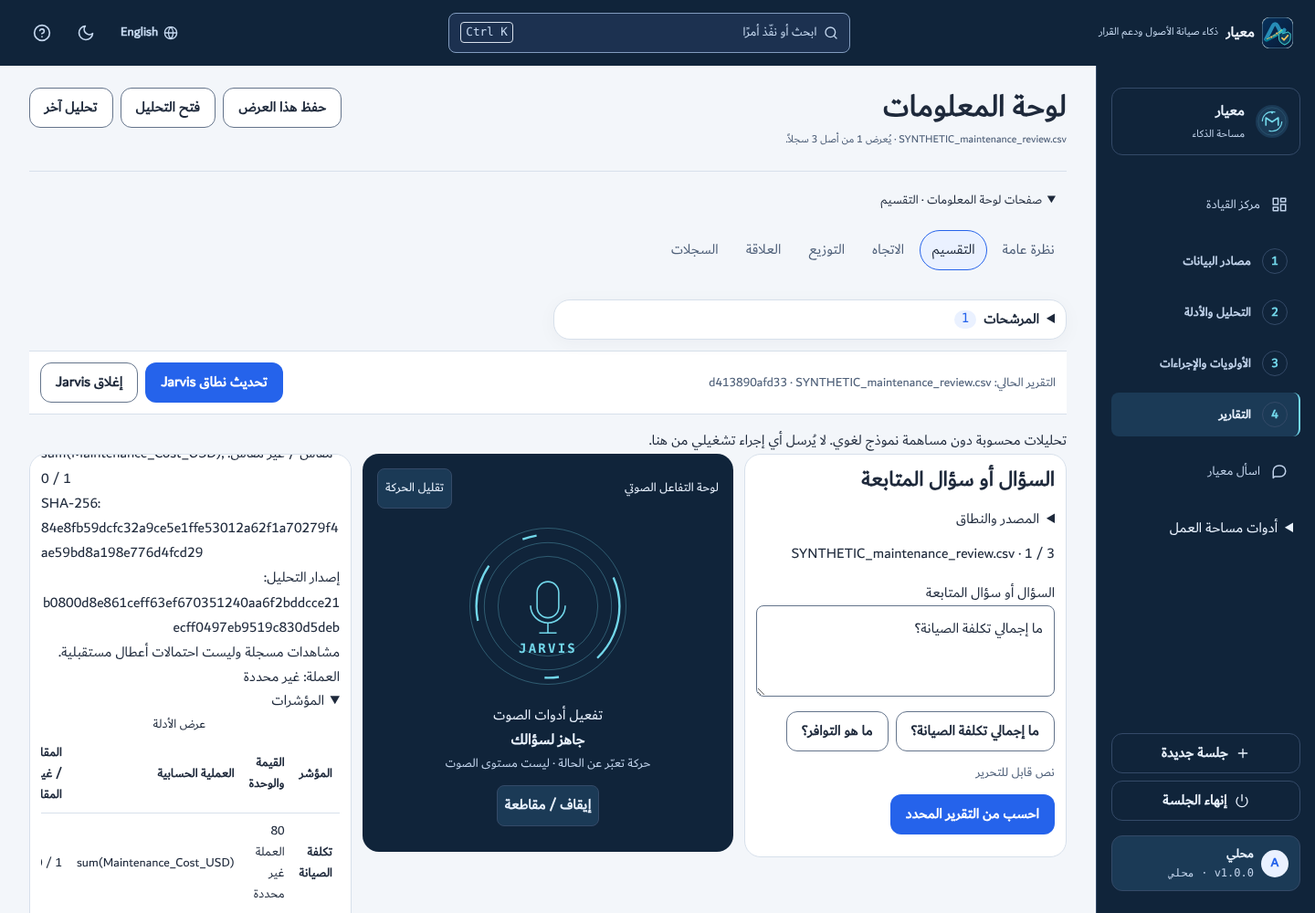
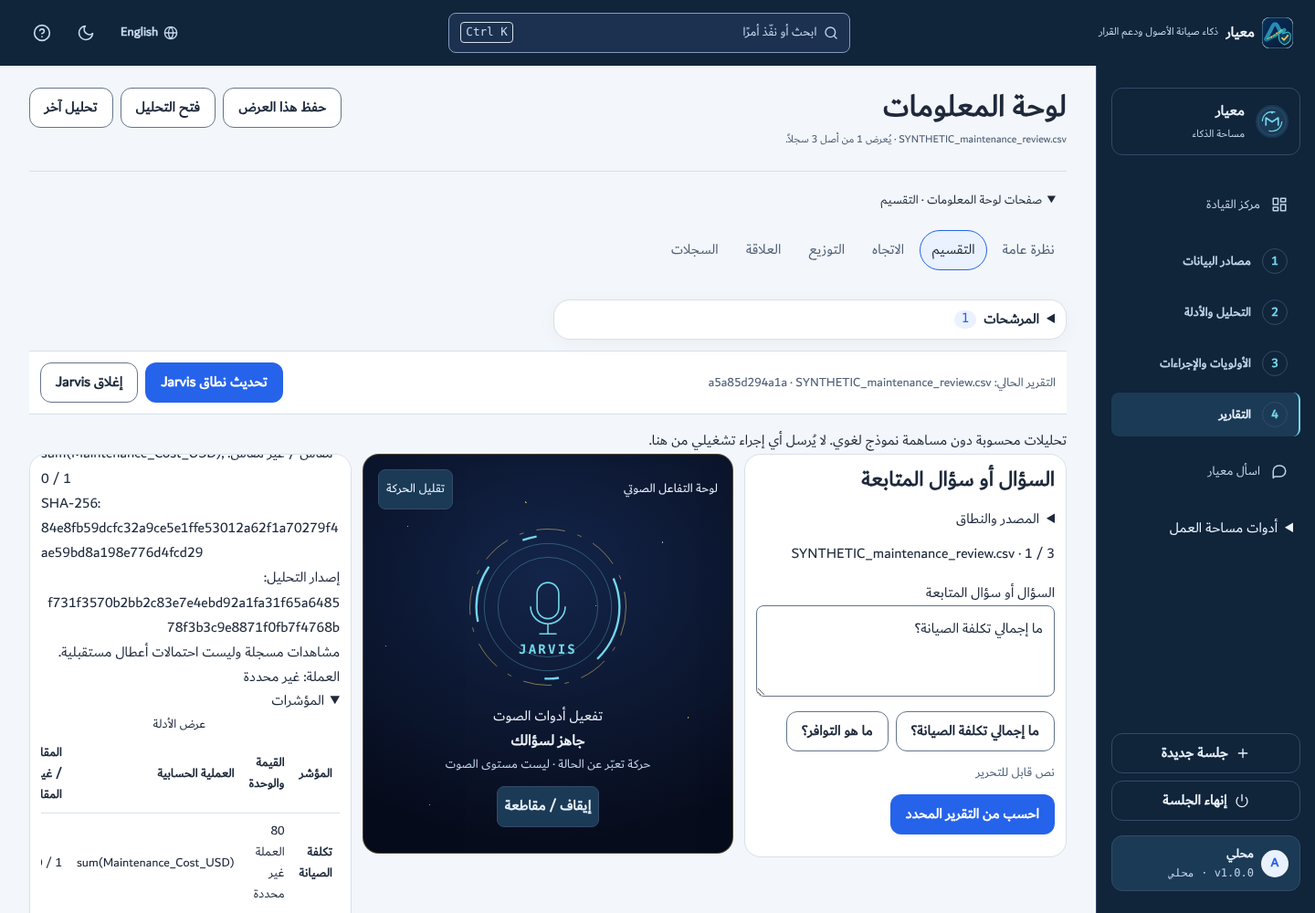
Jarvis command deck: celestial core, speaking head, live agent map
The voice core sits on a night-sky gradient with CSS particles and a
gold ring; while speaking, the microphone becomes a gold head outline (a
state cue, no audio level). AgentMap reads the run's real task states
from GET /api/runs/{id}, grouped by the existing bands, named in the
interface language, refreshed every 4 s only while the run is live, and
says so when states cannot be read. Codex's Jarvis behaviour is kept;
Jarvis e2e 10 of 10, 4 new unit tests, verify 8 of 8. Script and style
totals rise to 273 KB and 37 KB (+1,363 and +617 bytes); first load is
unchanged. The raise awaits the owner's approval before merge.

Claude-Session: https://claude.ai/code/session_013QuA9ZJjZFprHsrGeG8vHp

diff --git a/frontend/src/features/chat/jarvis.css b/frontend/src/features/chat/jarvis.css
@@ -31,7 +31,28 @@
 .jarvis__measures { overflow: auto; }
 .jarvis__measures table { font-size: var(--text-s); border-collapse: collapse; width: 100%; }
 .jarvis__measures th, .jarvis__measures td { padding: var(--space-2); border-bottom: 1px solid var(--border); text-align: start; }
-.jarvis-core { min-width: 0; padding: var(--space-4); border-radius: var(--radius-l); background: var(--nav-surface); color: var(--nav-text); text-align: center; }
+.jarvis-core { position: relative; isolation: isolate; overflow: hidden; min-width: 0; padding: var(--space-4); border-radius: var(--radius-l); border: 1px solid rgba(232,194,106,.3); background: radial-gradient(120% 90% at 50% 30%, #13254a, #070c1c 75%); color: #eaf1fb; text-align: center; }
+.jarvis-core::before { content: ''; position: absolute; inset: 0; z-index: -1; opacity: .7; background: radial-gradient(1.5px 1.5px at 12% 18%, #cfe8ff 50%, transparent 51%), radial-gradient(1px 1px at 28% 72%, #cfe8ff 50%, transparent 51%), radial-gradient(2px 2px at 44% 12%, #e8c26a 50%, transparent 51%), radial-gradient(1px 1px at 63% 38%, #cfe8ff 50%, transparent 51%), radial-gradient(1.5px 1.5px at 81% 22%, #cfe8ff 50%, transparent 51%), radial-gradient(2px 2px at 88% 66%, #e8c26a 50%, transparent 51%), radial-gradient(1px 1px at 18% 88%, #cfe8ff 50%, transparent 51%), radial-gradient(1.5px 1.5px at 55% 84%, #cfe8ff 50%, transparent 51%), radial-gradient(1px 1px at 72% 92%, #e8c26a 50%, transparent 51%), radial-gradient(1px 1px at 6% 48%, #cfe8ff 50%, transparent 51%); animation: jarvis-drift 18s ease-in-out infinite alternate; }
+@keyframes jarvis-drift { to { transform: translateY(-14px); opacity: .4; } }
+.jarvis-core__orb .jarvis-core__gold { stroke: #e8c26a; stroke-dasharray: 40 18 6 18; opacity: .7; }
+.jarvis-core__mic, .jarvis-core__head { transition: opacity .4s; }
+.jarvis-core__head { opacity: 0; stroke: #e8c26a; }
+.jarvis-core[data-state='speaking'] .jarvis-core__head { opacity: 1; }
+.jarvis-core[data-state='speaking'] .jarvis-core__mic { opacity: 0; }
+.agent-map { margin-block: var(--space-4); padding: var(--space-4); border-radius: var(--radius-l); border: 1px solid rgba(232,194,106,.3); background: #0a1330; color: #eaf1fb; }
+.agent-map header { display: flex; flex-wrap: wrap; justify-content: space-between; gap: var(--space-2); color: #f1dfae; }
+.agent-map p { color: #a9b8d0; font-size: var(--text-s); }
+.agent-map__bands { display: grid; grid-template-columns: repeat(auto-fit, minmax(190px, 1fr)); gap: var(--space-3); }
+.agent-map h4 { color: #e8c26a; font-size: var(--text-xs); margin-block: var(--space-2); }
+.agent-map ol { list-style: none; padding: 0; display: grid; gap: var(--space-1); }
+.agent-map li { display: flex; gap: var(--space-2); align-items: center; padding: var(--space-1) var(--space-2); border-radius: var(--radius-s); border: 1px dashed #3a4a66; font-size: var(--text-s); }
+.agent-map li > :nth-child(2) { flex: 1; min-width: 0; }
+.agent-map__state { font-size: var(--text-xs); color: #a9b8d0; }
+.agent-map li[data-state='succeeded'] { border: 1px solid rgba(125,211,252,.35); }
+.agent-map li[data-state='succeeded'] > :first-child { color: #7dd3fc; }
+.agent-map li[data-state='running'] { border: 1px solid #e8c26a; background: rgba(232,194,106,.12); }
+.agent-map li:is([data-state='failed'], [data-state='awaiting_approval']) { border: 1px solid #fb923c; }
+.agent-map li[data-state='failed'] > :first-child { color: #fb923c; }
 .jarvis-core__top { display: flex; flex-wrap: wrap; align-items: center; justify-content: space-between; gap: var(--space-2); font-size: var(--text-s); }
 .jarvis-core__top button, .jarvis-core .btn--ghost { color: var(--nav-text); background: var(--nav-active); border: 1px solid var(--nav-border); border-radius: var(--radius-s); padding: var(--space-2); }
 .jarvis-core__orb { display: block; position: relative; width: min(190px, 100%); aspect-ratio: 1; padding: 0; border: 0; background: transparent; margin: var(--space-3) auto; color: var(--nav-accent); }
@@ -49,7 +70,7 @@
 .jarvis-core:is([data-state='processing'], [data-state='requesting']) .jarvis-core__arc { animation: jarvis-turn 5s linear infinite; }
 @keyframes jarvis-pulse { 50% { transform: scale(1.12); opacity: .9; } }
 @keyframes jarvis-turn { to { transform: rotate(360deg); } }
-.jarvis-core[data-still='true'] *, .jarvis-core[data-still='true'] *::before { animation: none !important; }
-@media (prefers-reduced-motion: reduce) { .jarvis-core * { animation: none !important; } }
+.jarvis-core[data-still='true'] *, .jarvis-core[data-still='true'] *::before, .jarvis-core[data-still='true']::before { animation: none !important; }
+@media (prefers-reduced-motion: reduce) { .jarvis-core *, .jarvis-core::before { animation: none !important; } }
 @media (max-width: 1100px) { .jarvis__console { grid-template-columns: minmax(0, 1fr) minmax(0, 1fr); } .jarvis__console > .jarvis-core { grid-column: 1 / -1; } .jarvis__composer { grid-row: 2; } .jarvis__answer { grid-column: 2; grid-row: 2; } }
 @media (max-width: 700px) { .jarvis__console { display: flex; flex-direction: column; } .jarvis__console > * { width: 100%; } .jarvis__answer { max-block-size: none; } }

diff --git a/frontend/src/features/chat/AgentMap.test.tsx b/frontend/src/features/chat/AgentMap.test.tsx
@@ -1,0 +1,54 @@
+import { act, render, screen } from '@testing-library/react'
+import { afterEach, expect, it, vi } from 'vitest'
+import { AgentMap } from './AgentMap'
+import { JarvisCore } from './JarvisCore'
+import { api } from '../../shared/api'
+import type { RunDetail, RunTask } from '../../shared/types'
+
+const task = (role: string, state: string, title: string): RunTask =>
+  ({ id: role, role, title, state, summary: null, quality_checks: [], claims: [] })
+const run = (state: string, tasks: RunTask[]) => ({ id: 'r1', state, tasks } as unknown as RunDetail)
+
+afterEach(() => { vi.restoreAllMocks(); vi.useRealTimers() })
+
+it('shows each agent with the state the server reports, grouped by band', async () => {
+  vi.spyOn(api, 'getRun').mockResolvedValue(run('awaiting_approval', [
+    task('planner', 'succeeded', 'Planner Agent — what to do'), task('anomaly', 'failed', 'Anomaly Agent'),
+    task('reliability_model', 'skipped', 'Reliability Agent — failure pattern'),
+  ]))
+  render(<AgentMap runId="r1" />)
+  const map = await screen.findByRole('region', { name: 'Agent map' })
+  expect(map).toHaveTextContent('1/3')
+  // Built-in agents are named in the interface language; a custom stage keeps the server's title.
+  expect(screen.getByText('Planning').closest('li')).toHaveAttribute('data-state', 'succeeded')
+  expect(screen.getByText('Anomaly detection').closest('li')).toHaveAttribute('data-state', 'failed')
+  expect(screen.getByText('Reliability Agent').closest('li')).toHaveAttribute('data-state', 'skipped')
+})
+
+it('refreshes while the run is live and stops once it settles', async () => {
+  vi.useFakeTimers()
+  const getRun = vi.spyOn(api, 'getRun')
+    .mockResolvedValueOnce(run('running', [task('planner', 'running', 'Planner Agent')]))
+    .mockResolvedValue(run('completed', [task('planner', 'succeeded', 'Planner Agent')]))
+  render(<AgentMap runId="r1" />)
+  await act(async () => { await Promise.resolve() })
+  expect(screen.getByText('Planning').closest('li')).toHaveAttribute('data-state', 'running')
+  await act(async () => { await vi.advanceTimersByTimeAsync(4000) })
+  expect(screen.getByText('Planning').closest('li')).toHaveAttribute('data-state', 'succeeded')
+  await act(async () => { await vi.advanceTimersByTimeAsync(12000) })
+  expect(getRun).toHaveBeenCalledTimes(2)
+})
+
+it('says so when agent states cannot be read, inventing none', async () => {
+  vi.spyOn(api, 'getRun').mockRejectedValue(new Error('Synthetic outage'))
+  render(<AgentMap runId="r1" />)
+  expect(await screen.findByText('Agent states unavailable.')).toBeInTheDocument()
+})
+
+it('turns the orb into a head outline only while speaking', () => {
+  const { container, rerender } = render(<JarvisCore state="ready" />)
+  expect(container.querySelector('.jarvis-core__head')).not.toBeNull()
+  expect(container.querySelector('.jarvis-core')).toHaveAttribute('data-state', 'ready')
+  rerender(<JarvisCore state="speaking" />)
+  expect(container.querySelector('.jarvis-core')).toHaveAttribute('data-state', 'speaking')
+})

diff --git a/frontend/src/features/chat/AgentMap.tsx b/frontend/src/features/chat/AgentMap.tsx
@@ -1,0 +1,41 @@
+import { useEffect, useState } from 'react'
+import { api } from '../../shared/api'
+import type { RunDetail } from '../../shared/types'
+import type { MessageKey } from '../../i18n'
+import { usePack } from '../../i18n/pack'
+import { jarvisMessages } from '../../i18n/jarvis'
+import { stateLabel } from '../../shared/labels'
+import { BASE_ROLES, groupedTasks } from '../runs/pipeline'
+
+const LIVE = new Set(['queued', 'running'])
+const MARK: Record<string, string> = { succeeded: '✓', failed: '!', skipped: '–', cancelled: '–', running: '•', awaiting_approval: '◆' }
+
+/** The run's real stage states, read from the server and refreshed while it runs. Nothing is simulated. */
+export function AgentMap({ runId }: { runId: string }) {
+  const { t, formatNumber } = usePack(jarvisMessages)
+  const [run, setRun] = useState<RunDetail | null>(null)
+  const [failed, setFailed] = useState(false)
+  useEffect(() => {
+    let alive = true; let timer = 0
+    const load = () => api.getRun(runId).then((next) => {
+      if (!alive) return
+      setRun(next); setFailed(false)
+      if (LIVE.has(next.state)) timer = window.setTimeout(load, 4000)
+    }).catch(() => { if (alive) setFailed(true) })
+    void load()
+    return () => { alive = false; window.clearTimeout(timer) }
+  }, [runId])
+  if (!run) return failed ? <p className="agent-map__none">{t('agentMapNone')}</p> : null
+  const done = run.tasks.filter((task) => task.state === 'succeeded').length
+  return <section className="agent-map" aria-label={t('agentMap')}>
+    <header><strong>{t('agentMap')}</strong><span>{stateLabel(t, run.state)} · <bdi>{formatNumber(done)}/{formatNumber(run.tasks.length)}</bdi></span></header>
+    <p>{t('hermes')}</p>
+    <div className="agent-map__bands">{groupedTasks(run.tasks).filter((group) => group.tasks.length).map(({ band, tasks }) => <div key={band}>
+      <h4>{t(`cockpit.band.${band}` as MessageKey)}</h4>
+      <ol>{tasks.map((task) => <li key={task.id} data-state={task.state} title={stateLabel(t, task.state)}>
+        <span aria-hidden="true">{MARK[task.state] ?? ''}</span>
+        <span dir="auto">{(BASE_ROLES as readonly string[]).includes(task.role) ? t(`cockpit.role.${task.role}` as MessageKey) : task.title.split(' — ')[0]}</span>
+        <span className="agent-map__state">{stateLabel(t, task.state)}</span>
+      </li>)}</ol></div>)}</div>
+  </section>
+}

diff --git a/frontend/src/i18n/jarvis.ts b/frontend/src/i18n/jarvis.ts
@@ -1,6 +1,7 @@
 import { definePack } from './pack'
 export const jarvisMessages = definePack({
   voiceStage: 'Voice console', reduceMotion: 'Reduce motion', stateAnimation: 'State animation · not an audio level',
+  agentMap: 'Agent map', hermes: 'Hermes sequences these agents and holds the approval gate.', agentMapNone: 'Agent states unavailable.',
   transcribing: 'Preparing editable transcript', preparing: 'Preparing device speech', localVoiceUnavailable: 'Device-local English voice unavailable or playback failed.',
   ready: 'Ready for your question', requesting: 'Waiting for microphone', listening: 'Listening', processing: 'Processing selected data', speaking: 'Speaking', unavailable: 'Voice or service unavailable · text remains available',
   transcript: 'Editable transcript', evidenceView: 'Evidence view', measures: 'Measures', references: 'Full answer and references',
@@ -29,6 +30,7 @@ export const jarvisMessages = definePack({
   boot: 'Open synthetic workspace', bootError: 'Workspace unavailable. Start the documented synthetic server; the original database is not used.',
 }, {
   voiceStage: 'لوحة التفاعل الصوتي', reduceMotion: 'تقليل الحركة', stateAnimation: 'حركة تعبّر عن الحالة · ليست مستوى الصوت',
+  agentMap: 'خريطة الوكلاء', hermes: 'يرتّب هيرمس هؤلاء الوكلاء ويحرس بوابة الاعتماد.', agentMapNone: 'حالات الوكلاء غير متاحة.',
   transcribing: 'جارٍ إعداد النص القابل للتحرير', preparing: 'جارٍ تجهيز صوت الجهاز', localVoiceUnavailable: 'الصوت العربي المحلي غير متاح أو تعذر تشغيله.',
   ready: 'جاهز لسؤالك', requesting: 'بانتظار الميكروفون', listening: 'جارٍ الاستماع', processing: 'جارٍ معالجة البيانات المحددة', speaking: 'جارٍ التحدث', unavailable: 'الصوت أو الخدمة غير متاح · الكتابة متاحة',
   transcript: 'نص قابل للتحرير', evidenceView: 'عرض الأدلة', measures: 'المؤشرات', references: 'الإجابة الكاملة والمراجع',

diff --git a/frontend/src/features/chat/JarvisCore.tsx b/frontend/src/features/chat/JarvisCore.tsx
@@ -9,9 +9,11 @@ export function JarvisCore({ state, children, muted = true, onToggleAudio }: { s
   const { t } = usePack(jarvisMessages)
   const [still, setStill] = useState(false)
   const orb = <>
-      <svg viewBox="0 0 240 240"><circle cx="120" cy="120" r="108" /><circle cx="120" cy="120" r="88" />
+      <svg viewBox="0 0 240 240"><circle className="jarvis-core__gold" cx="120" cy="120" r="108" /><circle cx="120" cy="120" r="88" />
         <circle className="jarvis-core__arc" cx="120" cy="120" r="99" /><circle className="jarvis-core__pulse" cx="120" cy="120" r="69" />
-        <path d="M105 101v20a15 15 0 0 0 30 0v-20a15 15 0 0 0-30 0Zm-9 18a24 24 0 0 0 48 0m-24 24v14m-12 0h24" /></svg>
+        <path className="jarvis-core__mic" d="M105 101v20a15 15 0 0 0 30 0v-20a15 15 0 0 0-30 0Zm-9 18a24 24 0 0 0 48 0m-24 24v14m-12 0h24" />
+        {/* Speaking: the orb takes a human head's outline. A state cue, never a face of anyone. */}
+        <path className="jarvis-core__head" d="M100 170v-16c-14-8-22-22-22-40 0-28 20-48 46-48 24 0 42 18 42 42 0 6-1 10-3 14l10 16c2 3 0 5-3 5h-7v12c0 6-4 9-10 9h-12v6m9-66h1" /></svg>
       <span>JARVIS</span>
     </>
   return <section className="jarvis-core" data-state={state} data-still={still} aria-label={t('voiceStage')}>

diff --git a/frontend/src/features/dashboard/DashboardJarvis.tsx b/frontend/src/features/dashboard/DashboardJarvis.tsx
@@ -7,6 +7,7 @@ import { jarvisDashboardMessages } from '../../i18n/jarvisDashboard'
 
 const Workspace = lazy(() => import('../chat/JarvisWorkspace').then(module => ({ default: module.JarvisWorkspace })))
 const Core = lazy(() => import('../chat/JarvisCore').then(module => ({ default: module.JarvisCore })))
+const Agents = lazy(() => import('../chat/AgentMap').then(module => ({ default: module.AgentMap })))
 
 /** An explicit session binding to the exact chart scope. Never auto-select another run. */
 export function DashboardJarvis({ runId, datasetName, filters, children }: {
@@ -61,6 +62,7 @@ export function DashboardJarvis({ runId, datasetName, filters, children }: {
           {failed === 'missing' && <a href="/#/dashboard">{t('choose')}</a>}
           <p>{t('mode')}</p></div>
       </div>}
+      <Agents runId={runId} />
     </Suspense>
   </aside>
   return <section className="dash-jarvis" aria-label={t('title')}>

diff --git a/tests/test_verify.py b/tests/test_verify.py
@@ -41,12 +41,12 @@ class SummaryTests(unittest.TestCase):
 class BudgetTests(unittest.TestCase):
     def test_jarvis_allocation_is_exact_and_total_only(self):
         self.assertEqual({key: verify.BUDGET_KB[key] for key in ('js', 'js_total', 'js_chunk', 'css', 'css_total')},
-                         {'js': 100, 'js_total': 272, 'js_chunk': 30, 'css': 10.5, 'css_total': 36.5})
+                         {'js': 100, 'js_total': 273, 'js_chunk': 30, 'css': 10.5, 'css_total': 37})
         dist = self.build(100, 0)
-        values = {'js': 99539, 'js_total': 272001, 'js_chunk': 18188, 'css': 9813, 'css_total': 32451, 'fonts': 0}
+        values = {'js': 99539, 'js_total': 273001, 'js_chunk': 18188, 'css': 9813, 'css_total': 32451, 'fonts': 0}
         with mock.patch.object(verify, 'measure_budget', return_value=values):
             self.assertFalse(verify.check_budget(dist)[0])
-            values['js_total'] = 272000
+            values['js_total'] = 273000
             self.assertTrue(verify.check_budget(dist)[0])
 
     def build(self, js_bytes, font_bytes, chunk_bytes=0, preload_bytes=0):

diff --git a/scripts/verify.py b/scripts/verify.py
@@ -54,7 +54,9 @@ DIST = FRONTEND / "dist"
 # The sheet picker after a failed workbook upload adds 0.1 KB to the total
 # only: docs/adr/2026-10-30-sheet-picker-after-failure.md.
 # Explicit session recovery allocation: ADR 2026-11-02-session-scope-recovery.
-BUDGET_KB = {"js": 100, "js_total": 272, "js_chunk": 30, "css": 10.5, "css_total": 36.5,
+# Jarvis command deck (agent map, celestial core, speaking head) adds 1.4 KB
+# script and 0.6 KB style to the totals only: ADR 2026-11-02-jarvis-command-deck.
+BUDGET_KB = {"js": 100, "js_total": 273, "js_chunk": 30, "css": 10.5, "css_total": 37,
              "fonts": 145}
 LABELS = {"js": "js first load", "js_total": "js total", "js_chunk": "largest js chunk",
           "css": "css first load", "css_total": "css total", "fonts": "fonts"}

diff --git a/docs/UI_PLAN.md b/docs/UI_PLAN.md
@@ -183,7 +183,7 @@ From the skill's UX guidelines, applied here:
 | Keyboard | Every action reachable; visible focus ring; no keyboard traps; Escape closes overlays |
 | Layout | No horizontal page scroll from 320 to 1440 px |
 | Lighthouse (mobile) | Performance at least 95; Accessibility 100; Best Practices at least 95 |
-| Budget | JavaScript on first load at most 100 KB gzipped, all scripts at most 272 KB (the [session recovery allocation](adr/2026-11-02-session-scope-recovery.md), the [Jarvis workspace allocation](adr/2026-11-02-jarvis-evidence-workspace.md), following the [source handoff allocation](adr/2026-10-23-run-source-handoff.md), following the [RMD evidence allocation](adr/2026-10-22-rmd-evidence-and-insights.md), following the [decision inputs allocation](adr/2026-10-22-decision-inputs-interface.md) and the [slice three allocation](adr/2026-10-22-release-gate-slice-three.md) for the Command Centre and the Arabic report rendering together, following the [Command Centre allocation](adr/2026-10-22-executive-command-centre.md) and the [Arabic report rendering allocation](adr/2026-10-22-arabic-rendered-analysis-reports.md), following the [connected agent workspace allocation](adr/2026-10-21-connected-agent-workspace.md), following the [21 October operations workspace decision](adr/2026-10-21-operations-workspace.md), with operations and validation loaded on demand), and no view's chunk over 30 KB (ADR 0028: 85.7, 105.6 and 5.0 KB after views moved to chunks loaded on demand; a view's strings ship with its chunk, ADR 0035). CSS on the first load at most 10.5 KB gzipped and all CSS at most 36.5 KB (the [Jarvis workspace allocation](adr/2026-11-02-jarvis-evidence-workspace.md), following the [RMD evidence allocation](adr/2026-10-22-rmd-evidence-and-insights.md), following the [Arabic report rendering allocation](adr/2026-10-22-arabic-rendered-analysis-reports.md), following the [Command Centre allocation](adr/2026-10-22-executive-command-centre.md), following the [connected agent workspace allocation](adr/2026-10-21-connected-agent-workspace.md), following [shared performance badges](adr/2026-10-21-performance-status-presentation.md)), checked in exact bytes (the [21 October budget decision](adr/2026-10-21-css-budget-raised-and-exact.md), after the [21 October colourful dashboard decision](adr/2026-10-21-colourful-kpi-first-dashboard.md) and the [20 October collaboration decision](adr/2026-10-20-observed-agent-collaboration.md)), since a view's styles ship with its chunk (ADR 0032); fonts at most 145 KB of original file bytes (139,928 bytes for the single official Dubai Regular face; see the [Dubai font decision](adr/2026-10-23-original-dubai-font-and-concise-decisions.md)) |
+| Budget | JavaScript on first load at most 100 KB gzipped, all scripts at most 273 KB (the [Jarvis command deck allocation](adr/2026-11-02-jarvis-command-deck.md), following the [session recovery allocation](adr/2026-11-02-session-scope-recovery.md), the [Jarvis workspace allocation](adr/2026-11-02-jarvis-evidence-workspace.md), following the [source handoff allocation](adr/2026-10-23-run-source-handoff.md), following the [RMD evidence allocation](adr/2026-10-22-rmd-evidence-and-insights.md), following the [decision inputs allocation](adr/2026-10-22-decision-inputs-interface.md) and the [slice three allocation](adr/2026-10-22-release-gate-slice-three.md) for the Command Centre and the Arabic report rendering together, following the [Command Centre allocation](adr/2026-10-22-executive-command-centre.md) and the [Arabic report rendering allocation](adr/2026-10-22-arabic-rendered-analysis-reports.md), following the [connected agent workspace allocation](adr/2026-10-21-connected-agent-workspace.md), following the [21 October operations workspace decision](adr/2026-10-21-operations-workspace.md), with operations and validation loaded on demand), and no view's chunk over 30 KB (ADR 0028: 85.7, 105.6 and 5.0 KB after views moved to chunks loaded on demand; a view's strings ship with its chunk, ADR 0035). CSS on the first load at most 10.5 KB gzipped and all CSS at most 37 KB (the [Jarvis command deck allocation](adr/2026-11-02-jarvis-command-deck.md), following the [Jarvis workspace allocation](adr/2026-11-02-jarvis-evidence-workspace.md), following the [RMD evidence allocation](adr/2026-10-22-rmd-evidence-and-insights.md), following the [Arabic report rendering allocation](adr/2026-10-22-arabic-rendered-analysis-reports.md), following the [Command Centre allocation](adr/2026-10-22-executive-command-centre.md), following the [connected agent workspace allocation](adr/2026-10-21-connected-agent-workspace.md), following [shared performance badges](adr/2026-10-21-performance-status-presentation.md)), checked in exact bytes (the [21 October budget decision](adr/2026-10-21-css-budget-raised-and-exact.md), after the [21 October colourful dashboard decision](adr/2026-10-21-colourful-kpi-first-dashboard.md) and the [20 October collaboration decision](adr/2026-10-20-observed-agent-collaboration.md)), since a view's styles ship with its chunk (ADR 0032); fonts at most 145 KB of original file bytes (139,928 bytes for the single official Dubai Regular face; see the [Dubai font decision](adr/2026-10-23-original-dubai-font-and-concise-decisions.md)) |
 | Core Web Vitals | LCP under 2.5 s, CLS under 0.1, INP under 200 ms |
 
 ## 8. Phases

diff --git a/docs/adr/2026-11-02-jarvis-command-deck.md b/docs/adr/2026-11-02-jarvis-command-deck.md
@@ -1,0 +1,58 @@
+# Jarvis command deck: celestial core, speaking head, live agent map
+
+Date: 2026-11-02 · Status: Proposed. The owner approved the design from the
+clickable mockup on 2 November 2026 and asked for a head while speaking. The
+budget raise below waits for the owner's approval before merge.
+
+## Context
+
+The owner reviewed Codex's Jarvis and asked for a premium command deck:
+celestial particles, gold accents, a map of the agents with real run states,
+and the orb turning into a human head while Jarvis speaks. Codex had stopped
+work on Jarvis (owner confirmation, 2 November), so its files could change.
+
+## Decision
+
+1. **Celestial core.** The voice core (`JarvisCore`) sits on a night-sky
+   gradient with a field of particles drawn in CSS, and has a gold outer ring.
+   The particles drift slowly and stop under *Reduce motion* or the system's
+   reduced-motion setting.
+2. **Speaking head.** While the state is `speaking`, the microphone fades into
+   a gold line-art outline of a human head. It is a state cue, not anyone's
+   face, and no audio level is implied. Every other state keeps the
+   microphone.
+3. **Live agent map** (`AgentMap`, beside Jarvis on the dashboard). It reads
+   the run's real tasks from `GET /api/runs/{id}` and groups them in the
+   existing bands: data, analytics, assurance, publish.
+   - Each agent shows its server state with a mark and a label.
+   - Built-in agents are named in the interface language from the existing
+     `cockpit.role.*` strings; a custom stage keeps the server's title, which
+     is already in the run's language.
+   - The map refreshes every 4 seconds only while the run is queued or
+     running. If the states cannot be read, it says so and shows none.
+4. **What is kept.** All of Codex's Jarvis behaviour is unchanged: the
+   session binding, the evidence, the review, the voice controls and the
+   reduced motion.
+
+## Budget
+
+Measured in exact bytes after the build, against the current main:
+
+- **Script total:** 272,477 bytes, up from 271,114. That is +1,363 bytes,
+  over the 272,000 limit.
+- **Style total:** 36,688 bytes, up from 36,071. That is +617 bytes, over the
+  36,500 limit.
+- **First load:** unchanged. Script is 96.1 of 100 KB, style 10.4 of 10.5 KB.
+
+The limits rise to **273 KB of script** and **37 KB of style**, totals only,
+for a chunk that loads only when Jarvis opens.
+
+## Verification
+
+- `AgentMap.test.tsx`, 4 tests:
+  - the server states are shown, grouped by band, with interface-language names;
+  - the map refreshes while the run is live and stops once it settles;
+  - a read failure shows no invented state;
+  - the head outline is tied to the `speaking` state.
+- The 10 Jarvis browser tests (`playwright.jarvis.config.ts`) pass.
+- Screenshots were checked in Arabic and English.

diff --git a/project-progress.md b/project-progress.md
@@ -67,6 +67,7 @@ Last updated: 2026-10-23, platform/API recovery, transactional publishing and ap
 
 ## Now
 
+- **Jarvis command deck, 2026-11-02 (budget raise awaiting owner approval):** celestial night-sky core with CSS particles and a gold ring; the microphone becomes a gold head outline while speaking; a live agent map beside Jarvis reads the run's real task states, grouped by band, refreshed every 4 s only while the run is live. All Codex behaviour kept; Jarvis e2e 10 of 10. Totals rise to 273 KB script and 37 KB style (+1,363 and +617 bytes), first load unchanged. [Decision](docs/adr/2026-11-02-jarvis-command-deck.md).
 - **Command Centre redesign pilot, 2026-11-02:** the owner approved the "calm command centre" mockup. First slice: one primary action (the brief defers to the next-step review), brief and next step side by side from 1,100 px, a larger recommendation headline, KPI values in tiles. No string or data change; CSS total 36.1 of 36.5 KB, no raise. Next: dashboard and Jarvis, assets, runs. [Decision](docs/adr/2026-11-02-command-centre-pilot.md).
 - **Declared risk options R6, 2026-11-02:** `risk_ranking` takes `horizon_days` (default 90) and `criticality_weights` (default none) as stage options. Weights apply only when every criticality label has one, otherwise the claim names the gap; no weight is ever assumed. Invalid options fail at load. Defaults leave results unchanged; the owner supplies the numbers. No interface change. [Decision](docs/adr/2026-11-02-declared-risk-options.md).
 - **Decision stages on the Assets screen, 2026-10-31:** the Assets screen shows the latest maintenance run's data-health line and each decision stage's title and claims (R1 to R3) in the run's language; stage summaries now bilingual. No new string; six Operations help strings shortened in both languages; script total 257,090 of 257,100 bytes, no raise, 10 spare. [Decision](docs/adr/2026-10-31-decision-stages-on-assets.md).

diff --git a/brain/Decisions/Decision log.md b/brain/Decisions/Decision log.md
@@ -231,6 +231,7 @@ One line per record, read from its title and decision; the record itself is the 
 | 2026-10-31-decision-stages-on-assets | The Assets screen shows data health and the decision stages' claims in the run language; no new string; room from trimming six Operations strings | [[Design system]] |
 | 2026-11-02-declared-risk-options | Risk ranking takes a declared horizon and criticality weights as stage options; defaults unchanged; weights apply only when every label has one, otherwise the gap is named; invalid options fail at load | [[Evidence and claims]] |
 | 2026-11-02-command-centre-pilot | Command Centre redesign pilot: one primary action, brief and next step side by side, larger headline, KPI tiles; no data or string change, no budget raise | [[Design system]] |
+| 2026-11-02-jarvis-command-deck | Jarvis core on a celestial background with a gold ring, a head outline while speaking, and a live agent map of the run's real task states; totals raised to 273 KB script and 37 KB style, pending owner approval | [[Design system]] |
 
 - `2026-10-27-assistant-focus-and-context`: isolated candidate; native report disclosure beside composer, scoped session status and stronger first action. Browser acceptance pending.
 
